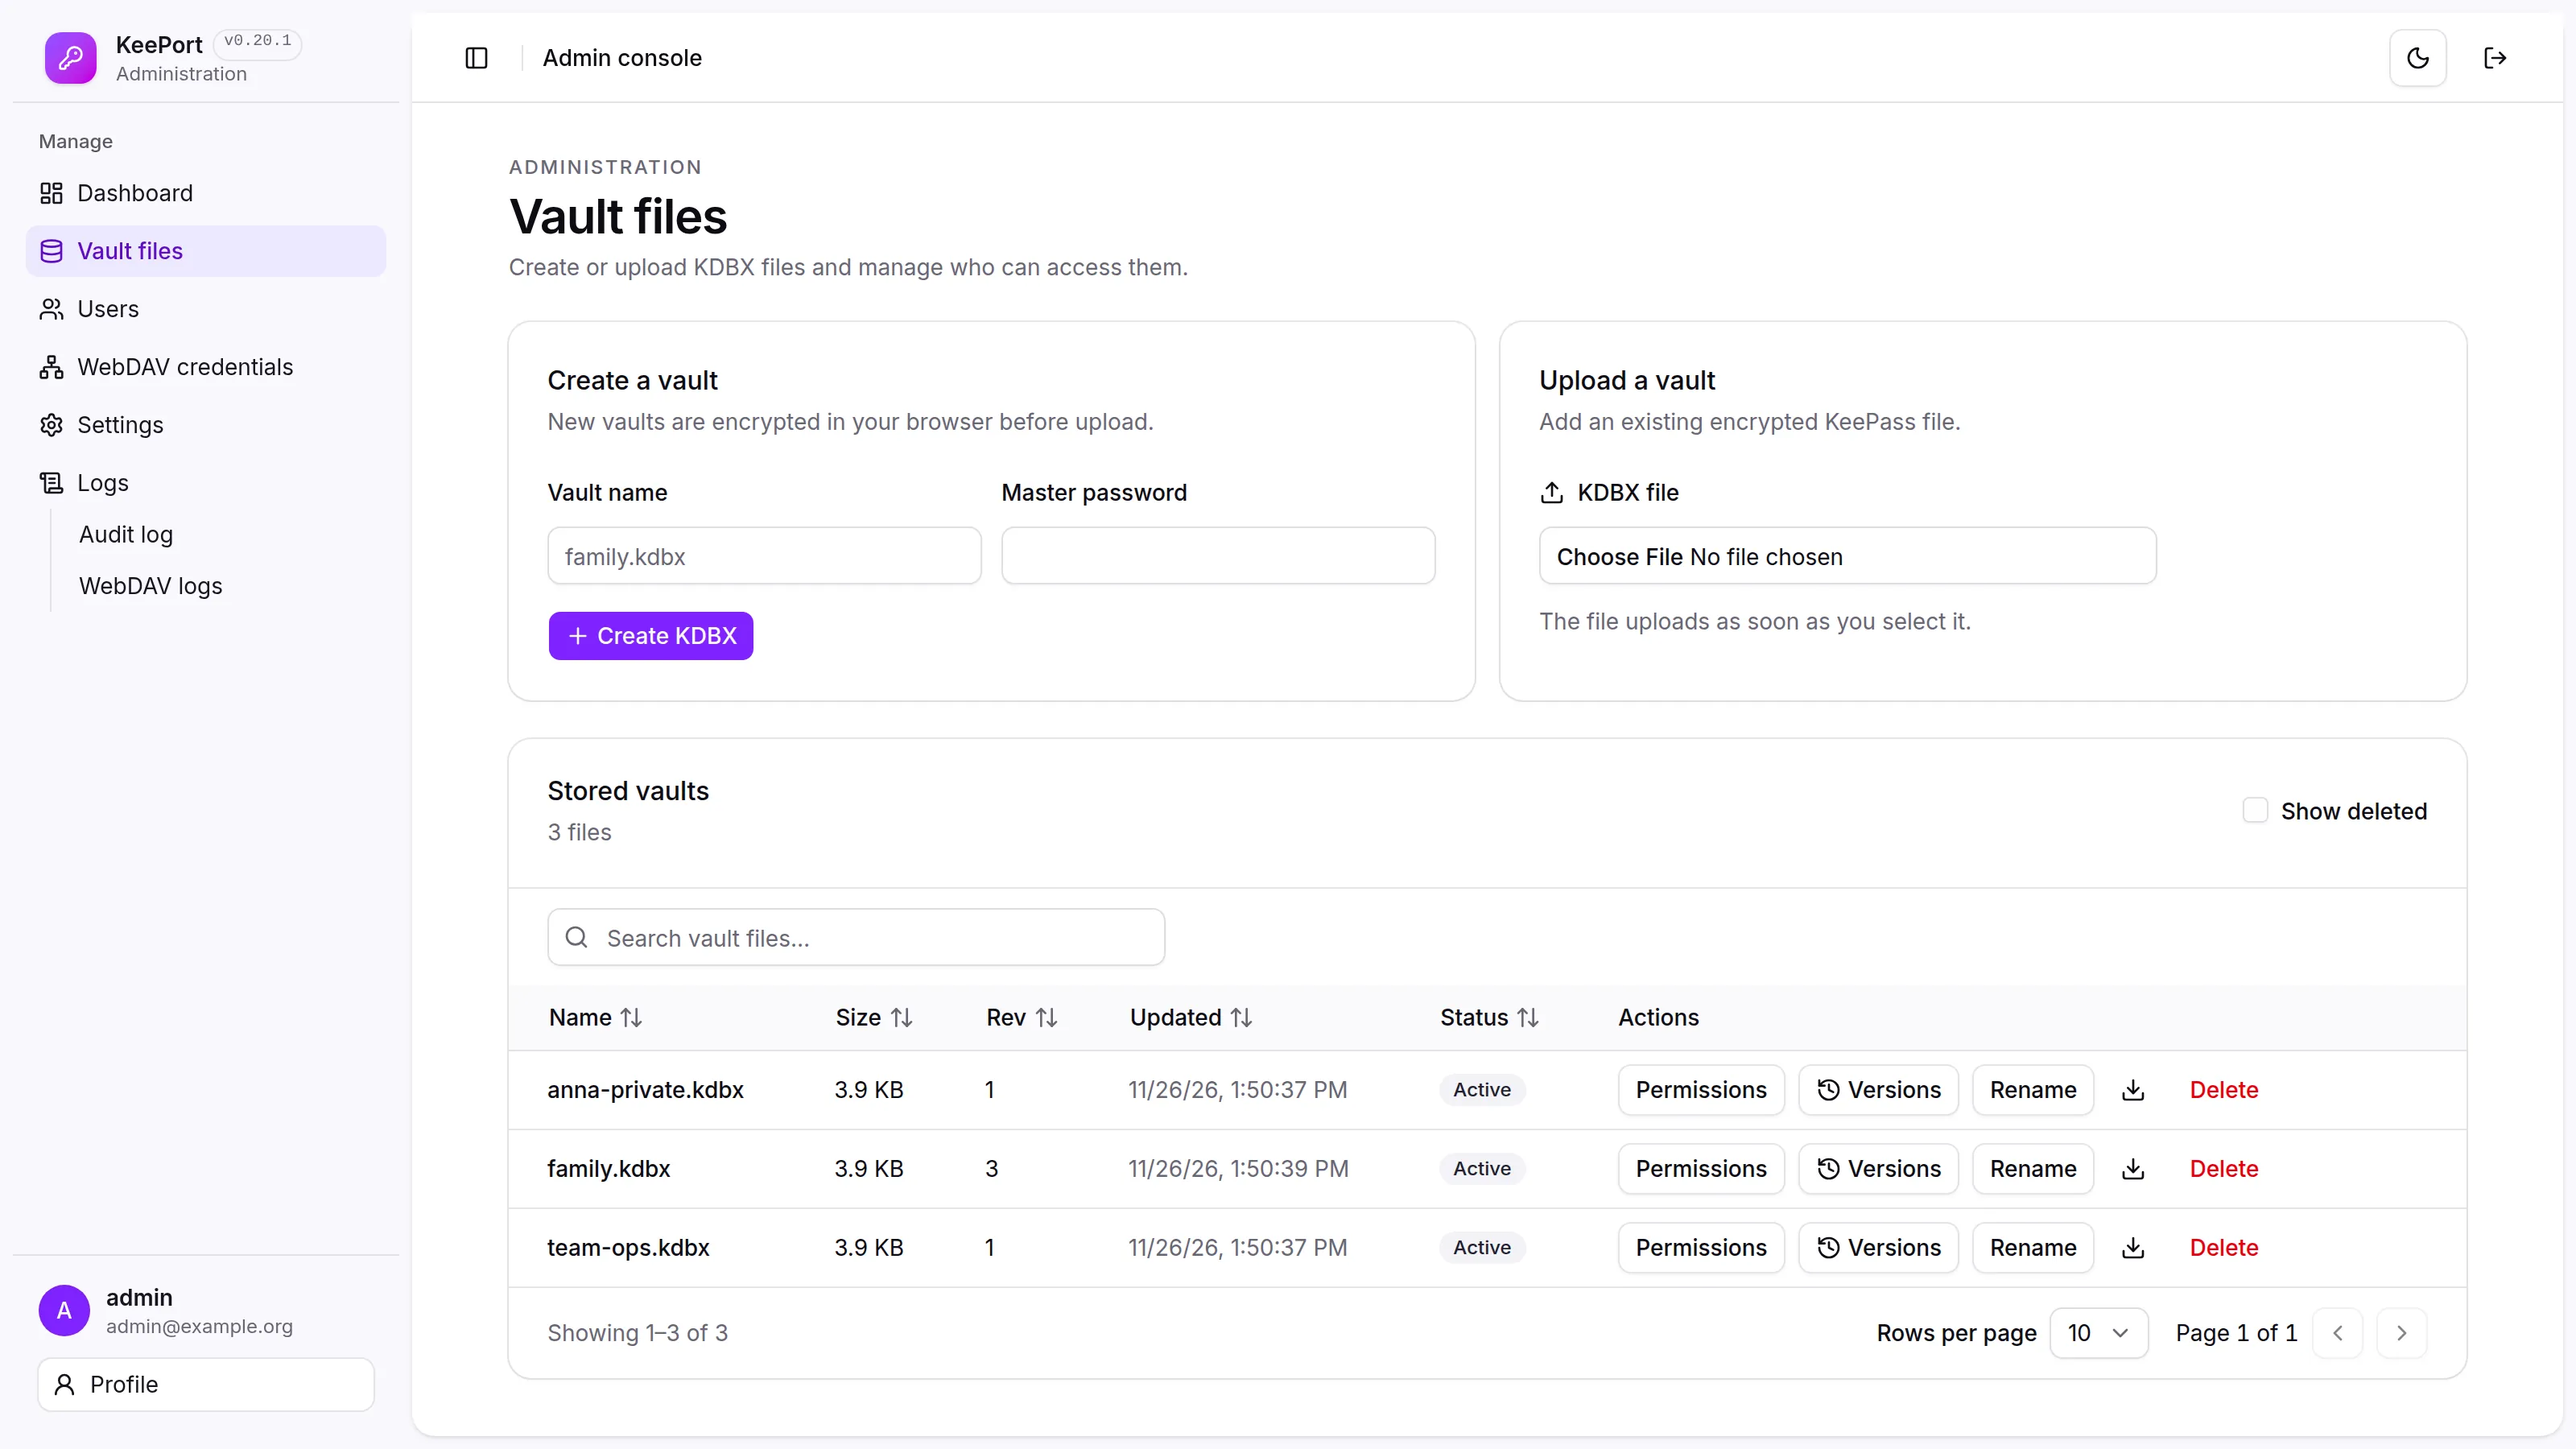
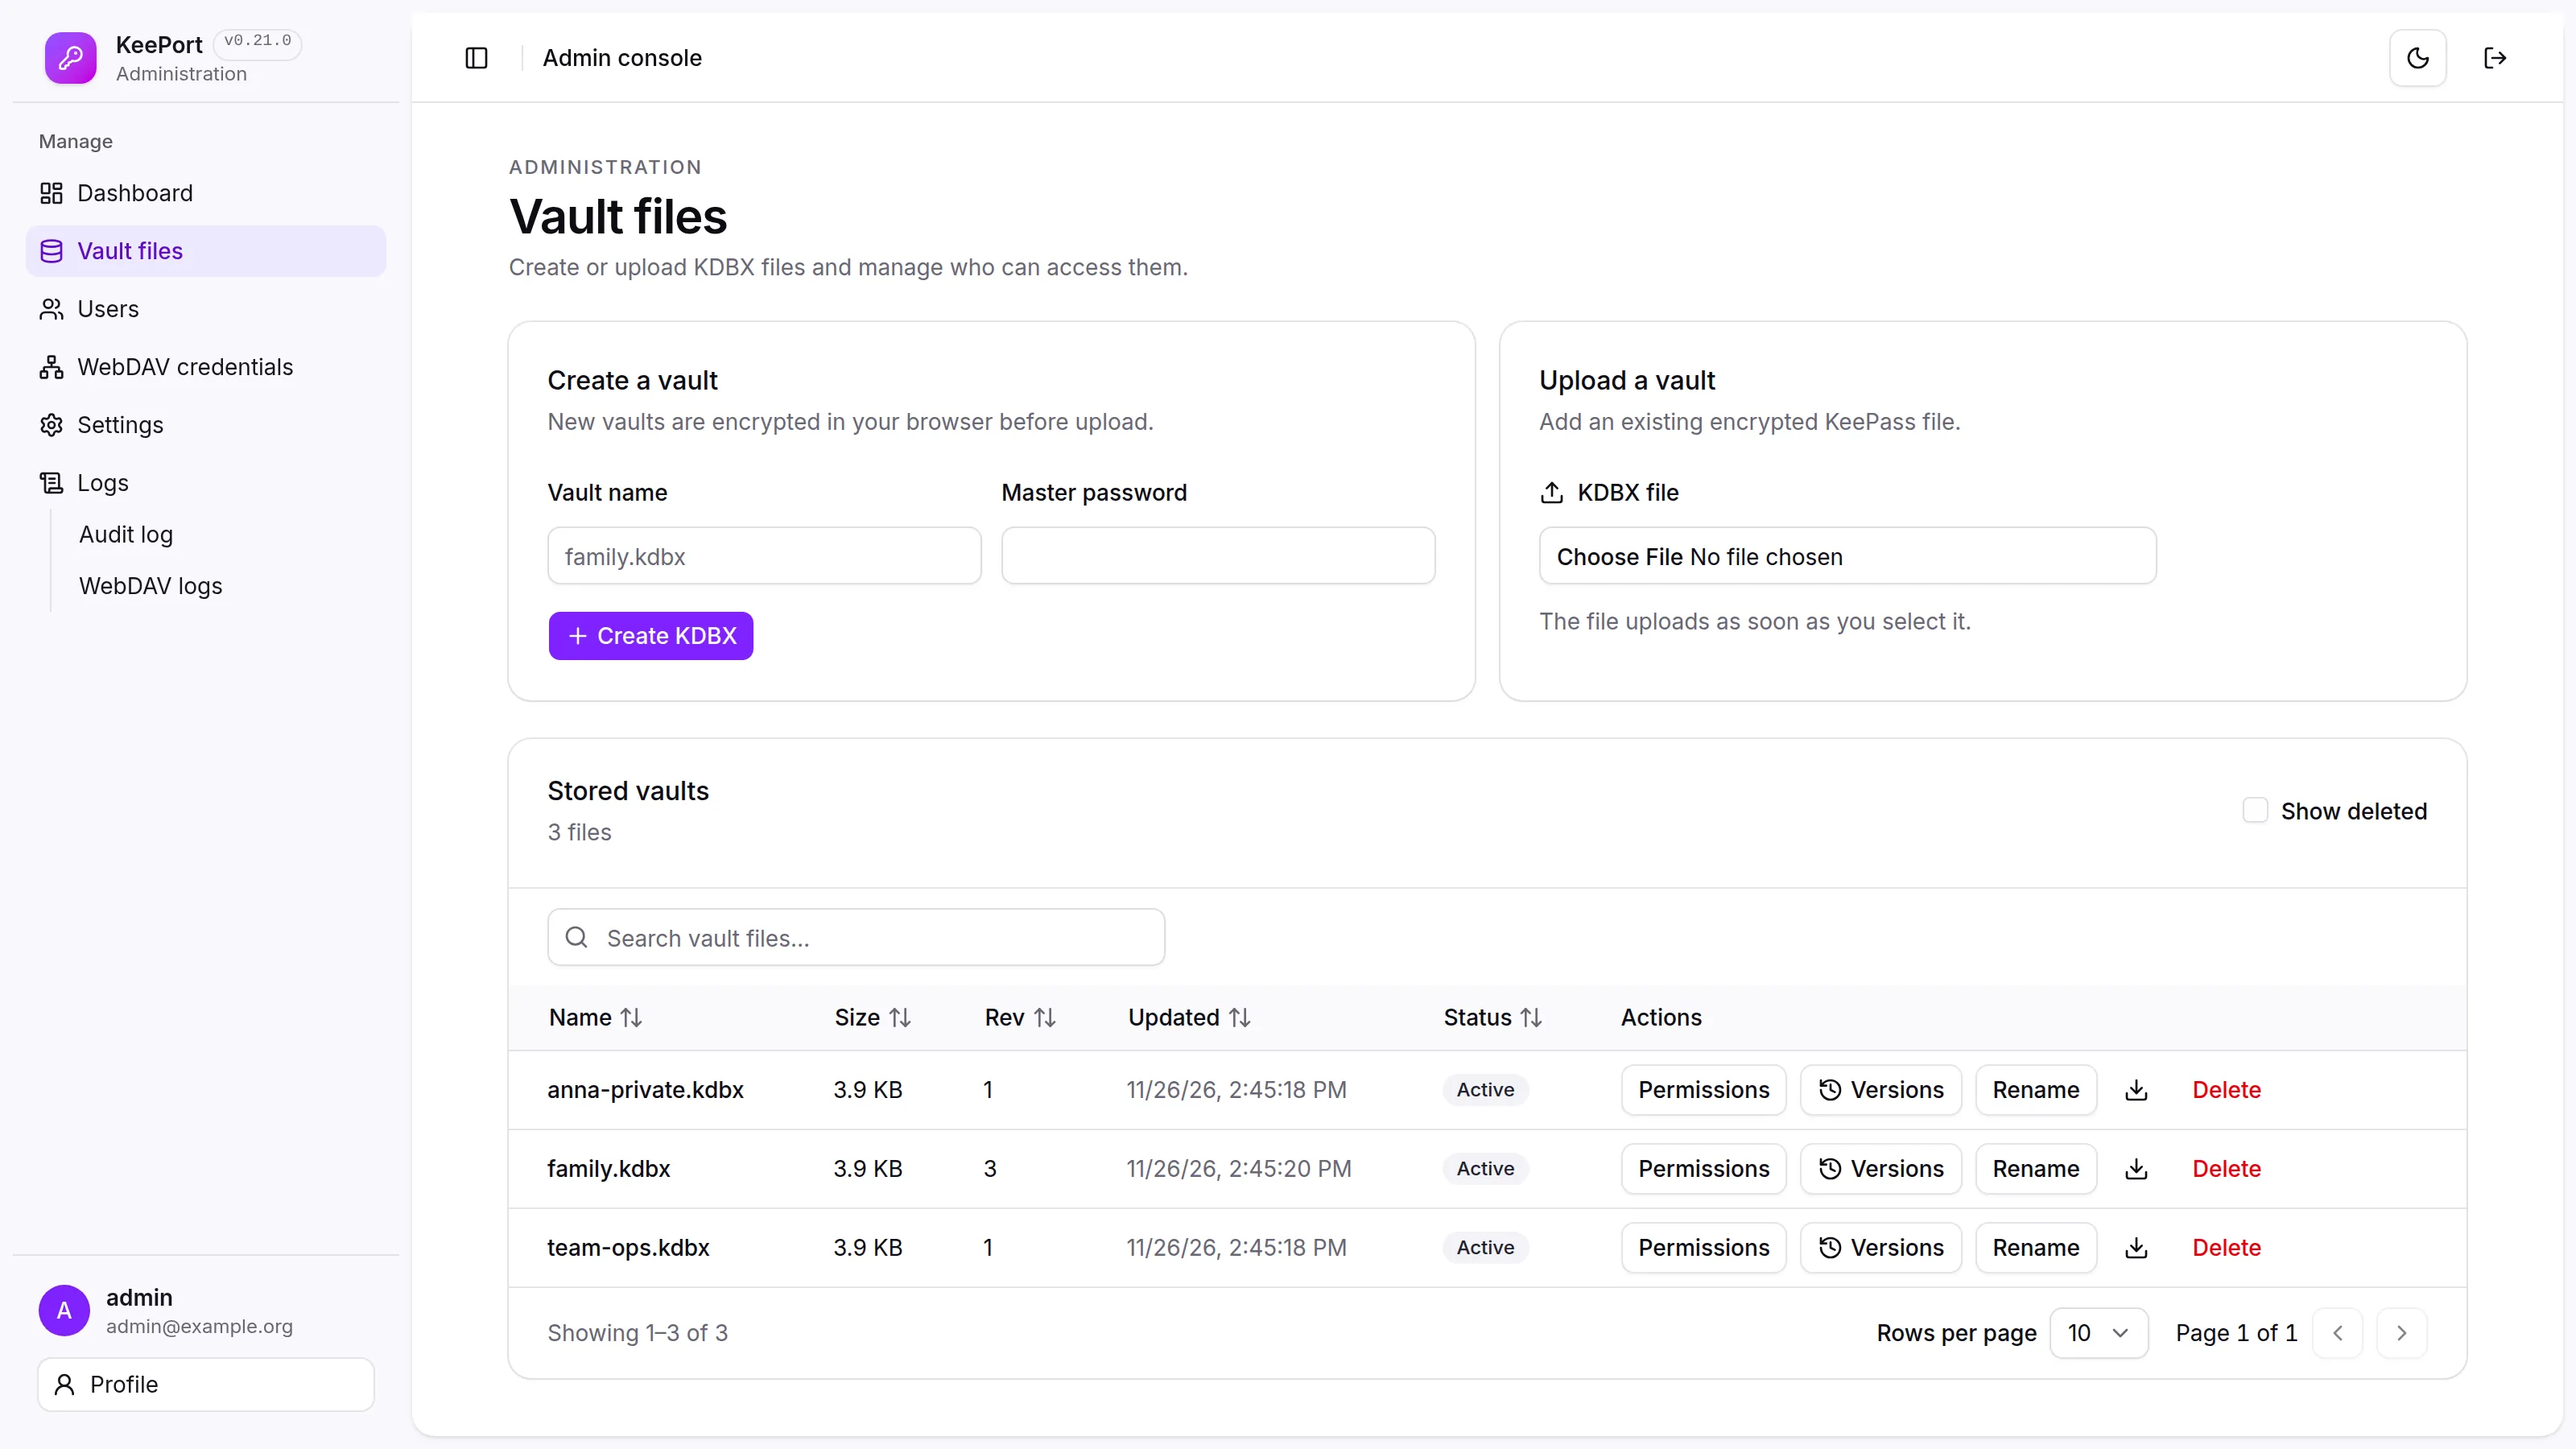
chore(release): 0.21.0

diff --git a/docs/DEPLOYMENT.md b/docs/DEPLOYMENT.md
@@ -21,7 +21,7 @@
 All paths use the same `docker-compose.yml` and end with the same [first steps in the admin console](#-first-steps-in-the-admin-console).
 
 > [!IMPORTANT]
-> Always install a **release** (for example `v0.20.1`), not the development branch. The latest version is listed on the [Releases page](https://github.com/madcoda9000/KeePort/releases). The examples below use `v0.20.1`.
+> Always install a **release** (for example `v0.21.0`), not the development branch. The latest version is listed on the [Releases page](https://github.com/madcoda9000/KeePort/releases). The examples below use `v0.21.0`.
 
 ## 🧩 How the pieces fit together
 
@@ -98,8 +98,8 @@ ssh your-user@192.168.1.20
 cd /volume1/docker
 
 # Download and unpack the release
-curl -L https://github.com/madcoda9000/KeePort/archive/refs/tags/v0.20.1.tar.gz | tar xz
-mv KeePort-0.20.1 keeport
+curl -L https://github.com/madcoda9000/KeePort/archive/refs/tags/v0.21.0.tar.gz | tar xz
+mv KeePort-0.21.0 keeport
 
 # Data folder outside the app folder, writable by the container user (UID 1000)
 sudo mkdir -p /volume1/docker/keeport-data
@@ -197,8 +197,8 @@ docker start keeport
 ssh admin@192.168.1.30
 cd /share/Container
 
-curl -L https://github.com/madcoda9000/KeePort/archive/refs/tags/v0.20.1.tar.gz | tar xz
-mv KeePort-0.20.1 keeport
+curl -L https://github.com/madcoda9000/KeePort/archive/refs/tags/v0.21.0.tar.gz | tar xz
+mv KeePort-0.21.0 keeport
 
 mkdir -p /share/Container/keeport-data
 chown -R 1000:1000 /share/Container/keeport-data
@@ -254,7 +254,7 @@ Add `Container/keeport-data` to a **Hybrid Backup Sync** job. For a fully consis
 For a home server or VPS with Docker Engine and the Compose v2 plugin.
 
 ```bash
-git clone --branch v0.20.1 https://github.com/madcoda9000/KeePort.git
+git clone --branch v0.21.0 https://github.com/madcoda9000/KeePort.git
 cd KeePort
 cp .env.example .env
 docker compose up -d --build
@@ -507,7 +507,7 @@ Read the [changelog](../CHANGELOG.md) and make a [backup](#-backup--restore) fir
 ```bash
 cd /volume1/docker                         # QNAP: cd /share/Container
 sudo bash keeport/scripts/keeport-update.sh          # latest release
-sudo bash keeport/scripts/keeport-update.sh v0.20.1   # or a specific one
+sudo bash keeport/scripts/keeport-update.sh v0.21.0   # or a specific one
 ```
 
 On QNAP, prefix the command with `BASE_DIR=/share/Container`. The script:
@@ -526,8 +526,8 @@ It never deletes anything — it prints the cleanup commands at the end. Set `YE
 ```bash
 cd /volume1/docker                # QNAP: cd /share/Container
 mv keeport keeport-old
-curl -L https://github.com/madcoda9000/KeePort/archive/refs/tags/v0.20.1.tar.gz | tar xz
-mv KeePort-0.20.1 keeport
+curl -L https://github.com/madcoda9000/KeePort/archive/refs/tags/v0.21.0.tar.gz | tar xz
+mv KeePort-0.21.0 keeport
 cp keeport-old/.env keeport/
 cd keeport
 sudo docker compose up -d --build # QNAP: without sudo
@@ -541,7 +541,7 @@ Delete `keeport-old` once everything works. If you installed via Container Manag
 ```bash
 cd KeePort
 git fetch --tags
-git checkout v0.20.1
+git checkout v0.21.0
 docker compose up -d --build
 ```
 

diff --git a/README.md b/README.md
@@ -23,7 +23,7 @@
 </div>
 
 > [!NOTE]
-> KeePort is in **beta** (`v0.20.1`). Keep regular backups of your `.kdbx` files and of the `/data` volume.
+> KeePort is in **beta** (`v0.21.0`). Keep regular backups of your `.kdbx` files and of the `/data` volume.
 >
 > The **[user manual](https://github.com/madcoda9000/KeePort/wiki)** in the wiki explains every page of the admin console and the web vault step by step.
 
@@ -141,7 +141,7 @@ KeePass files are great: open format, strong encryption, dozens of apps. Keeping
 
 ```bash
 # Check out the latest release (not the development branch)
-git clone --branch v0.20.1 https://github.com/madcoda9000/KeePort.git
+git clone --branch v0.21.0 https://github.com/madcoda9000/KeePort.git
 cd KeePort
 
 cp .env.example .env
@@ -172,7 +172,7 @@ Open the admin console with **`https://`**. Your browser warns once about the se
 ```bash
 cd KeePort
 git fetch --tags
-git checkout v0.20.1          # the release you want, see the Releases page
+git checkout v0.21.0          # the release you want, see the Releases page
 docker compose up -d --build
 ```
 
